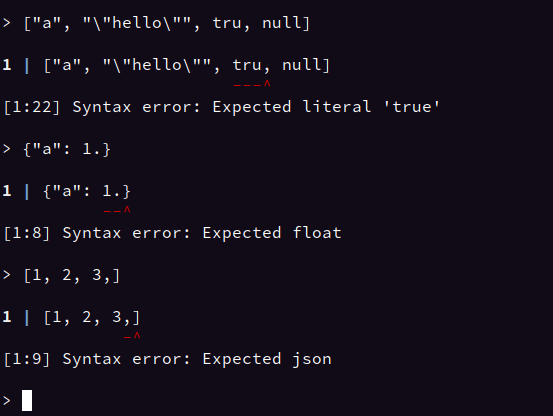
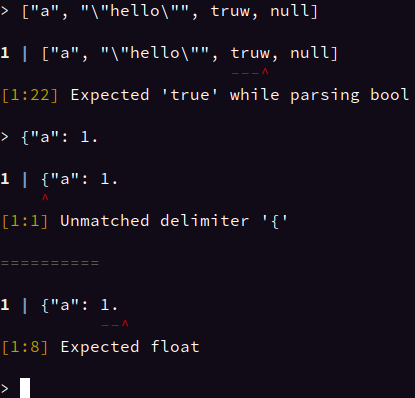
Update screenshots

diff --git a/README.md b/README.md
@@ -61,7 +61,7 @@ Here I will showcase some of the errors generated by both the expression parser 
 were obtained through the example REPLs, which can be run with `cargo run --example expr` and `cargo run --example json`
 respectively.
 
-![Example expression errors](./screenshots/expr-2.png)
+![Example expression errors](./screenshots/expr-1.png)
 
 ![Example json errors](./screenshots/json-1.png)
 
